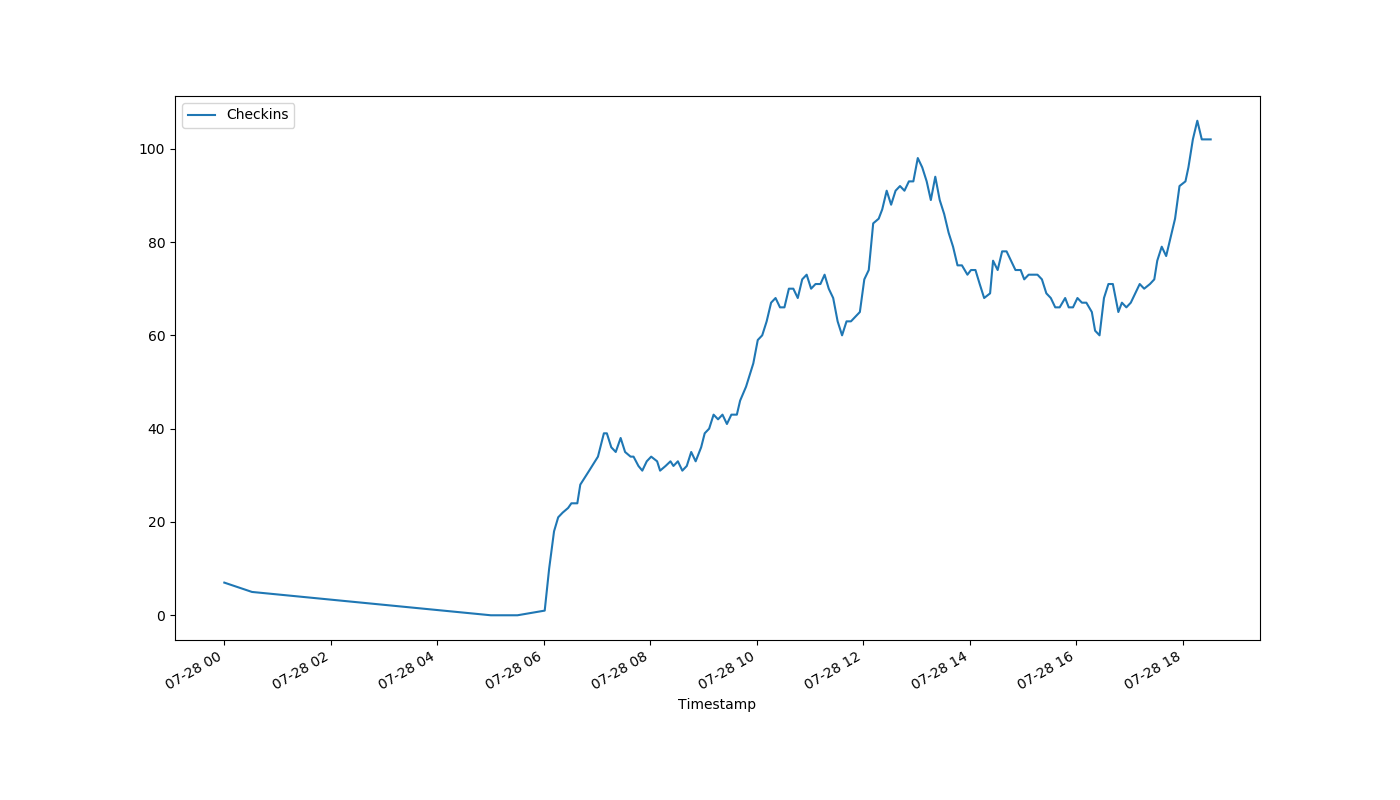
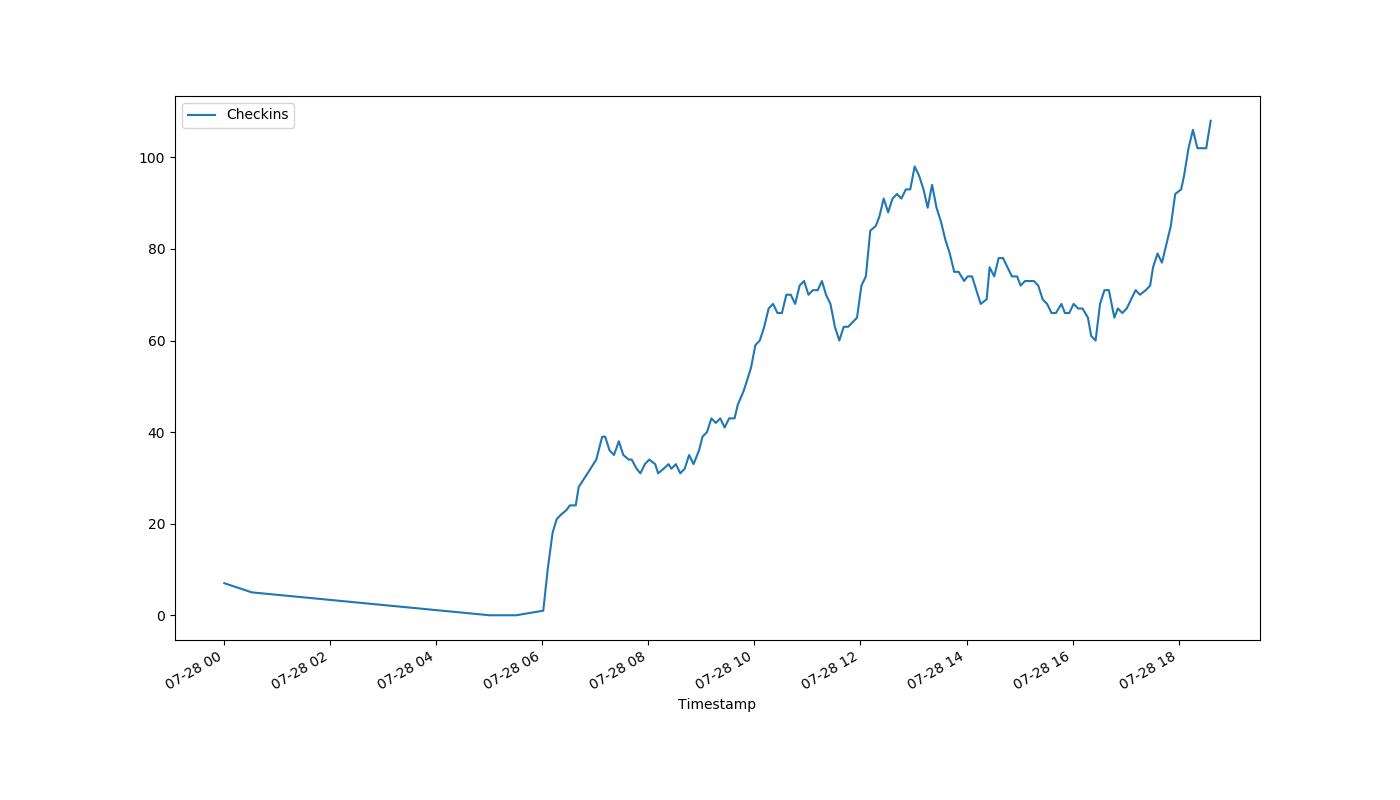
auto-Jul-28-18:37:31

diff --git a/index.html b/index.html
@@ -1,1 +1,1 @@
-<!DOCTYPE html><html><head><meta http-equiv="refresh" content="30"><link rel='stylesheet' href='holmcurrent.css'></head><body><p id='count'>102</p><div id='graph-wrap'><img id='graph' src='holmgraph-Jul-28.png'></div><p id='updated'>Last updated 18:31:17 / 18:31:12</p></body></html>
+<!DOCTYPE html><html><head><meta http-equiv="refresh" content="30"><link rel='stylesheet' href='holmcurrent.css'></head><body><p id='count'>108</p><div id='graph-wrap'><img id='graph' src='holmgraph-Jul-28.png'></div><p id='updated'>Last updated 18:36:17 / 18:36:13</p></body></html>
